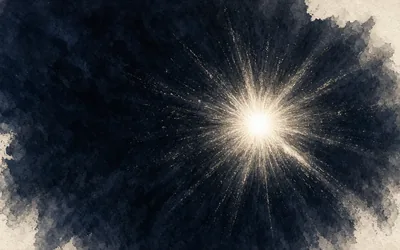
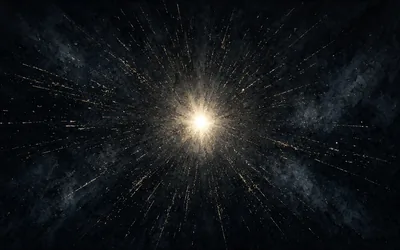
Replace civilization Batch C cosmos stage covers.
Fresh Art WebPs for cosmo-stage 1–10, including 1280w in the existing srcset. Axis, hub, origins, chronicle, tech, and city assets stay as they are.

diff --git a/tests/civilization.test.ts b/tests/civilization.test.ts
@@ -252,6 +252,7 @@ describe('civilization thick pages', () => {
     expect(deep.indexOf('href="/civilization/cosmos/"')).toBeLessThan(deep.indexOf('href="/civilization/origins/"'));
     expect(deep).toContain('閱讀宇宙長河');
     expect(deep).toContain('src="/static/civilization/cosmo-stage-1-cover-640w.webp"');
+    expect(deep).toContain('cosmo-stage-1-cover-1280w.webp 1280w');
     expect(deep).toContain('>宇宙<');
     expect(deep).not.toContain('civ-stage-');
     expect(hub.html.indexOf('class="chronicle-strip"')).toBeLessThan(hub.html.indexOf('class="today-pin"'));
@@ -372,8 +373,10 @@ describe('civilization thick pages', () => {
       expect(section).toContain('class="civ-figure"');
       expect(section).toContain(`src="/static/civilization/cosmo-stage-${stage.n}-cover-640w.webp"`);
       expect(section).toContain(`cosmo-stage-${stage.n}-cover-400w.webp 400w`);
+      expect(section).toContain(`cosmo-stage-${stage.n}-cover-1280w.webp 1280w`);
       expect(section).toContain('onerror="this.hidden=true"');
       expect(section).toContain('class="stage-seal"');
+      expect(existsSync(`public/static/civilization/cosmo-stage-${stage.n}-cover-1280w.webp`), `cosmo ${stage.n} 1280`).toBe(true);
       expect(existsSync(`public/static/civilization/cosmo-stage-${stage.n}-cover-640w.webp`), `cosmo ${stage.n} 640`).toBe(true);
       expect(existsSync(`public/static/civilization/cosmo-stage-${stage.n}-cover-400w.webp`), `cosmo ${stage.n} 400`).toBe(true);
       expect(section).not.toContain('/civilization/chronicle/');

diff --git a/shared/civilization/cosmos.ts b/shared/civilization/cosmos.ts
@@ -187,14 +187,15 @@ function paperSeal(n: number): string {
 
 /**
  * Cover slot for every stage. The paper ordinal is in the figure and stays hidden
- * while the WebP loads. onerror reveals it if a file is missing.
+ * while the WebP loads. 640 stays the src; 1280w is the high-DPR candidate.
+ * onerror reveals the seal if a file is missing.
  */
 export function cosmoCoverImg(stage: CosmoStage, eager: boolean): string {
   const base = `${CIV}/cosmo-stage-${stage.n}-cover`;
   const loading = eager ? 'eager' : 'lazy';
   const priority = eager ? ' fetchpriority="high"' : '';
   const alt = `${stage.name}：溫和示意，年代為約數`;
-  return `<img src="${base}-640w.webp" srcset="${base}-400w.webp 400w, ${base}-640w.webp 640w" sizes="(max-width: 640px) 100vw, 400px" width="640" height="400" alt="${esc(alt)}" loading="${loading}"${priority} decoding="async" onerror="this.hidden=true" />`;
+  return `<img src="${base}-640w.webp" srcset="${base}-400w.webp 400w, ${base}-640w.webp 640w, ${base}-1280w.webp 1280w" sizes="(max-width: 640px) 100vw, 400px" width="640" height="400" alt="${esc(alt)}" loading="${loading}"${priority} decoding="async" onerror="this.hidden=true" />`;
 }
 
 function sourceHref(url: string): string {

diff --git a/public/static/civilization/MANIFEST.md b/public/static/civilization/MANIFEST.md
@@ -8,6 +8,8 @@ Red lines: no Taiwan / politics / border maps / faces / flags
 
 **Batch B remake 2026-10-18** (no old-crop): fresh Art WebP replaced chronicle stage covers S1–S10. Public files are `civ-stage-{1..10}-cover-{1280,640,400}w.webp` (1280×720 native; 640×400 and 400×250 are 16:10 center crops, not a recompress of the previous covers). Hub cards and chronicle figures keep the 640 src and include 1280w in the srcset. Axis, hub, origins, cosmos, tech, and city files are unchanged.
 
+**Batch C remake 2026-10-18** (no old-crop): fresh Art WebP replaced cosmos stage covers CS1–CS10. Public files are `cosmo-stage-{1..10}-cover-{1280,640,400}w.webp` (1280×720 native; 640×400 and 400×250 are 16:10 center crops, not a recompress of the previous covers). The cosmos page and hub cosmos card keep the 640 src and include 1280w in the srcset. Axis, hub, origins, civ-stage, tech, and city files are unchanged.
+
 | Slot | Files | Notes |
 |------|-------|-------|
 | H1 axis-bg | civ-home-axis-bg-{640,960,1280,1920}w.webp (+jpg) | CSS bg; opacity 0.35–0.55 + ink mask; alt="" |
@@ -25,6 +27,6 @@ Checked-in drop is WebP only (JPEG twins were not attached), plus `overview-hero
 | Slot | Files | Notes |
 |------|-------|-------|
 | S1–S10 stage covers | civ-stage-{1..10}-cover-{1280,640,400}w.webp | Batch B remake 2026-10-18, not old-crop. 1280×720 plus 640×400 / 400×250 16:10 crops. Hub cards and chronicle figures. Strip stays a paper ordinal; no `civ-node-*-480w` thumb is on disk. |
-| CS1–CS10 cosmos covers | cosmo-stage-{1..10}-cover-{640,400}w.webp | 640×400 and 400×250, 16:10. All ten on disk. Hub cosmos card uses CS1. Paper ordinal is hidden unless the file fails. See `MANIFEST-cosmo-stages.md`. |
+| CS1–CS10 cosmos covers | cosmo-stage-{1..10}-cover-{1280,640,400}w.webp | Batch C remake 2026-10-18, fresh art not old-crop. 1280×720 plus 640×400 / 400×250 16:10 crops. Hub cosmos card uses CS1. Paper ordinal is hidden unless the file fails. See `MANIFEST-cosmo-stages.md`. |
 | T1–T10 tech covers | tech-stage-{1..10}-cover-{640,400}w.webp | 640×400 and 400×250, 16:10. Interim crops of `node-tech-v1.jpg` for `/civilization/tech/`. Page hero keeps the full JPEG. |
 | U1–U10 city covers | city-stage-{1..10}-cover-{640,400}w.webp | 640×400 and 400×250, 16:10. Interim crops of `node-city-v1.jpg` for `/civilization/city/`. Page hero keeps the full JPEG. |

diff --git a/public/static/civilization/MANIFEST-cosmo-stages.md b/public/static/civilization/MANIFEST-cosmo-stages.md
@@ -2,21 +2,21 @@
 
 Date: 2026-10-18
 Path: `public/static/civilization/`
-Size: `{640,400}w` WebP, 16:10 (640×400 and 400×250)
+Size: `{1280,640,400}w` WebP. Native 1280×720; 640×400 and 400×250 are 16:10 crops.
 
-All ten slots are on disk. The page still keeps a paper ordinal in the markup; it stays hidden unless that file fails to load. Chronicle `civ-stage-*` files are a different set.
+**Batch C remake 2026-10-18**, fresh art not old-crop. All ten slots are on disk. The page still keeps a paper ordinal in the markup; it stays hidden unless that file fails to load. Chronicle `civ-stage-*` files are a different set. The 640 src stays; 1280w is in the srcset.
 
 | Stage | Name | Files |
 |------:|------|-------|
-| 1 | 大爆炸與暴脹 | `cosmo-stage-1-cover-{640,400}w.webp` |
-| 2 | 原初核合成 | `cosmo-stage-2-cover-{640,400}w.webp` |
-| 3 | 宇宙透明與第一代恆星 | `cosmo-stage-3-cover-{640,400}w.webp` |
-| 4 | 星系與大尺度結構 | `cosmo-stage-4-cover-{640,400}w.webp` |
-| 5 | 太陽系形成 | `cosmo-stage-5-cover-{640,400}w.webp` |
-| 6 | 早期地球與液態水 | `cosmo-stage-6-cover-{640,400}w.webp` |
-| 7 | 生命起源 | `cosmo-stage-7-cover-{640,400}w.webp` |
-| 8 | 光合作用與大氧化 | `cosmo-stage-8-cover-{640,400}w.webp` |
-| 9 | 多細胞與顯生宙輻射 | `cosmo-stage-9-cover-{640,400}w.webp` |
-| 10 | 人族前生物圈 | `cosmo-stage-10-cover-{640,400}w.webp` |
+| 1 | 大爆炸與暴脹 | `cosmo-stage-1-cover-{1280,640,400}w.webp` |
+| 2 | 原初核合成 | `cosmo-stage-2-cover-{1280,640,400}w.webp` |
+| 3 | 宇宙透明與第一代恆星 | `cosmo-stage-3-cover-{1280,640,400}w.webp` |
+| 4 | 星系與大尺度結構 | `cosmo-stage-4-cover-{1280,640,400}w.webp` |
+| 5 | 太陽系形成 | `cosmo-stage-5-cover-{1280,640,400}w.webp` |
+| 6 | 早期地球與液態水 | `cosmo-stage-6-cover-{1280,640,400}w.webp` |
+| 7 | 生命起源 | `cosmo-stage-7-cover-{1280,640,400}w.webp` |
+| 8 | 光合作用與大氧化 | `cosmo-stage-8-cover-{1280,640,400}w.webp` |
+| 9 | 多細胞與顯生宙輻射 | `cosmo-stage-9-cover-{1280,640,400}w.webp` |
+| 10 | 人族前生物圈 | `cosmo-stage-10-cover-{1280,640,400}w.webp` |
 
 The hub cosmos card uses stage 1. The home-axis 「宇宙」 node stays text-only.
